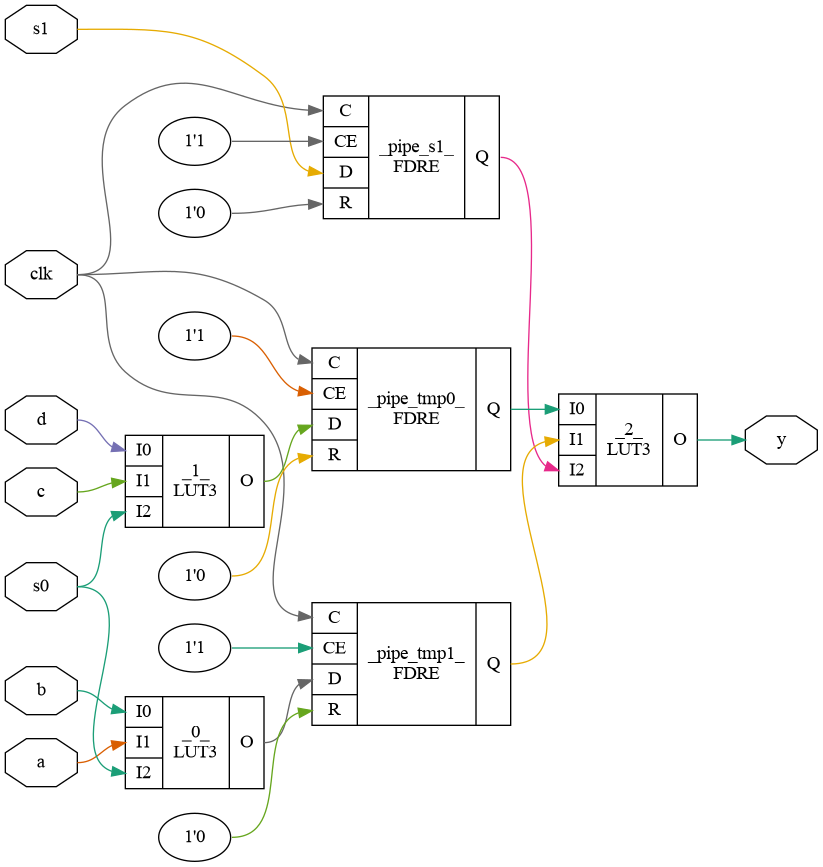
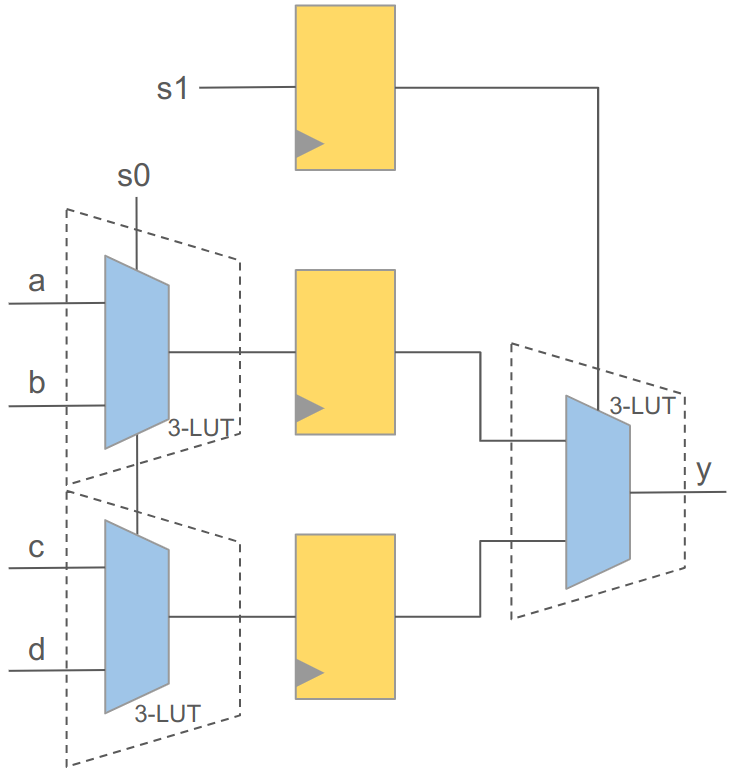
refresh figures

diff --git a/iccad/sections/03-rewrites.tex b/iccad/sections/03-rewrites.tex
@@ -192,22 +192,22 @@ up to complementation.
 \subsection{Register Retiming}\label{sec:rewrites:retiming}
 
 \begin{figure*}[tb]
-    \begin{subfigure}{0.33\textwidth}
+    \begin{subfigure}{0.31\textwidth}
         \centering
-        \includegraphics[width=\textwidth]{img/mux_4_1.png}
+        \includegraphics[width=0.9\textwidth]{img/mux_4_1.png}
         \caption{Three 3-LUT, three FF topology.}\label{fig:retiming:a}
     \end{subfigure}
-    \begin{subfigure}{0.33\textwidth}
+    \begin{subfigure}{0.37\textwidth}
         \centering
-        \includegraphics[width=\textwidth]{img/mux_4_1_retime_dsd.png}
-        \caption{Two 4-LUT, one FF topology.}\label{fig:retiming:b}
+        \includegraphics[width=0.9\textwidth]{img/mux_4_1_retime_dsd.png}
+        \caption{Two 4-LUT, four FF topology.}\label{fig:retiming:b}
     \end{subfigure}
-    \begin{subfigure}{0.33\textwidth}
+    \begin{subfigure}{0.31\textwidth}
         \centering
-        \includegraphics[width=\textwidth]{img/mux_4_1_retime.png}
+        \includegraphics[width=0.9\textwidth]{img/mux_4_1_retime.png}
         \caption{One 6-LUT, one FF topology.}\label{fig:retiming:c}
     \end{subfigure}
-    \caption{Three varying topologies for 4:1 MUX with pipeline register. \todo{Placeholder images. Remake by hand.}}\label{fig:retiming}
+    \caption{Three varying topologies for 4:1 MUX with pipeline register.}\label{fig:retiming}
 \end{figure*}
 
 Register retiming is a purely structural rule, meaning it can be implemented

diff --git a/iccad/sections/04-toolflow.tex b/iccad/sections/04-toolflow.tex
@@ -9,15 +9,15 @@ flows, and the rewritten circuits must be verified.
     \begin{subfigure}{0.47\textwidth}
         \centering
         \includegraphics[width=\textwidth]{img/flow.png}
-        \caption{Tool flow to integrate E-Pack with existing RTL synthesis engines. \todo{figure text is incorrect}}\label{fig:flow:rtl}
+        \caption{The tool flow integrating E-Pack with existing RTL engines.}\label{fig:flow:rtl}
     \end{subfigure}
     \hfill\vspace{4mm}
     \begin{subfigure}{0.47\textwidth}
         \centering
         \includegraphics[width=\textwidth]{img/egraph.png}
-        \caption{Compilation steps internal to \shortname{} Verilog tool.}\label{fig:flow:egraph}
+        \caption{The compilation steps internal to \shortname{} Verilog tool.}\label{fig:flow:egraph}
     \end{subfigure}
-    \caption{\todo{root caption}}\label{fig:flow}
+    \caption{Diagrams of the top-level integration of E-Pack into existing tool flows and internal e-graph driven compiler architecture.}\label{fig:flow}
 \end{figure}
 
 \subsection{Extraction}\label{sec:flow:extraction}
